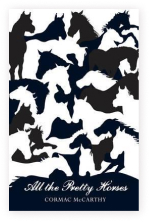
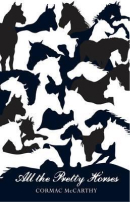
Purchased Books added

diff --git a/profile/profile.html b/profile/profile.html
@@ -43,6 +43,47 @@
                 </div>
             </div>
         </section>
+
+        <section class="sliderSection container">
+            <div class="sliderSection__inner">
+                <h3 class="sliderSection__title">Purchased Books <span class="sliderSection__count">19</span></h3>
+                <div class="sliderSection__content sliderSection__content_book">
+                    <div class="sliderSection__item ">
+                        <a href="#" class="sliderSection__item_book">
+                            <img src="/assets/images/Little_Fires_Everywhere.jpg" class="sliderSection__bg"
+                                alt="Book image">
+                            <h4 class="sliderSection__title_book">Little Fires Everywhere</h4>
+                            <p class="sliderSection__author_light">Celeste Ng</p>
+                        </a>
+                    </div>
+                    <div class="sliderSection__item ">
+                        <a href="#" class="sliderSection__item_book">
+                            <img src="/assets/images/All_the_Pretty_Horses.jpg" class="sliderSection__bg"
+                                alt="Book image">
+                            <h4 class="sliderSection__title_book">All the Pretty Horses</h4>
+                            <p class="sliderSection__author_light">Cormac McCarthy</p>
+                        </a>
+                    </div>
+                    <div class="sliderSection__item ">
+                        <a href="#" class="sliderSection__item_book">
+                            <img src="/assets/images/The_Handmaid’s_Tale.jpg" class="sliderSection__bg"
+                                alt="Book image">
+                            <h4 class="sliderSection__title_book">The Handmaid’s Tale</h4>
+                            <p class="sliderSection__author_light">Margaret Atwood</p>
+                        </a>
+                    </div>
+                    <div class="sliderSection__item ">
+                        <a href="#" class="sliderSection__item_book">
+                            <img src="/assets/images/The_Great_Gatsby.jpg" class="sliderSection__bg" alt="Book image">
+                            <h4 class="sliderSection__title_book">The Great Gatsby</h4>
+                            <p class="sliderSection__author_light">F. Scott Fitzgerald</p>
+                        </a>
+                    </div>
+                </div>
+                <a href="#" class="sliderSection__viewAll">View all Purchased Books &gt</a>
+            </div>
+            
+        </section>
     </main>
     <footer class="footerSection container">
         <nav class="footerSection__inner container__row">

diff --git a/assets/styles/profile.css b/assets/styles/profile.css
@@ -44,3 +44,27 @@
     font-size: 20px;
     font-weight: 700;
 }
+
+.sliderSection__count {
+    font-family: "Montserrat", Times, serif;
+    font-style: normal;
+    font-weight: normal;
+    font-size: 12px;
+    line-height: 140%;
+    color: #53889D;
+}
+
+.sliderSection__viewAll {
+    font-family: "Montserrat", Times, serif;
+    font-style: normal;
+    font-weight: 600;
+    font-size: 12px;
+    line-height: 140%;
+    color: #D96F6E;
+    display: block;
+    text-align: center;
+}
+
+.sliderSection__content {
+    margin-bottom: 25px;
+}
